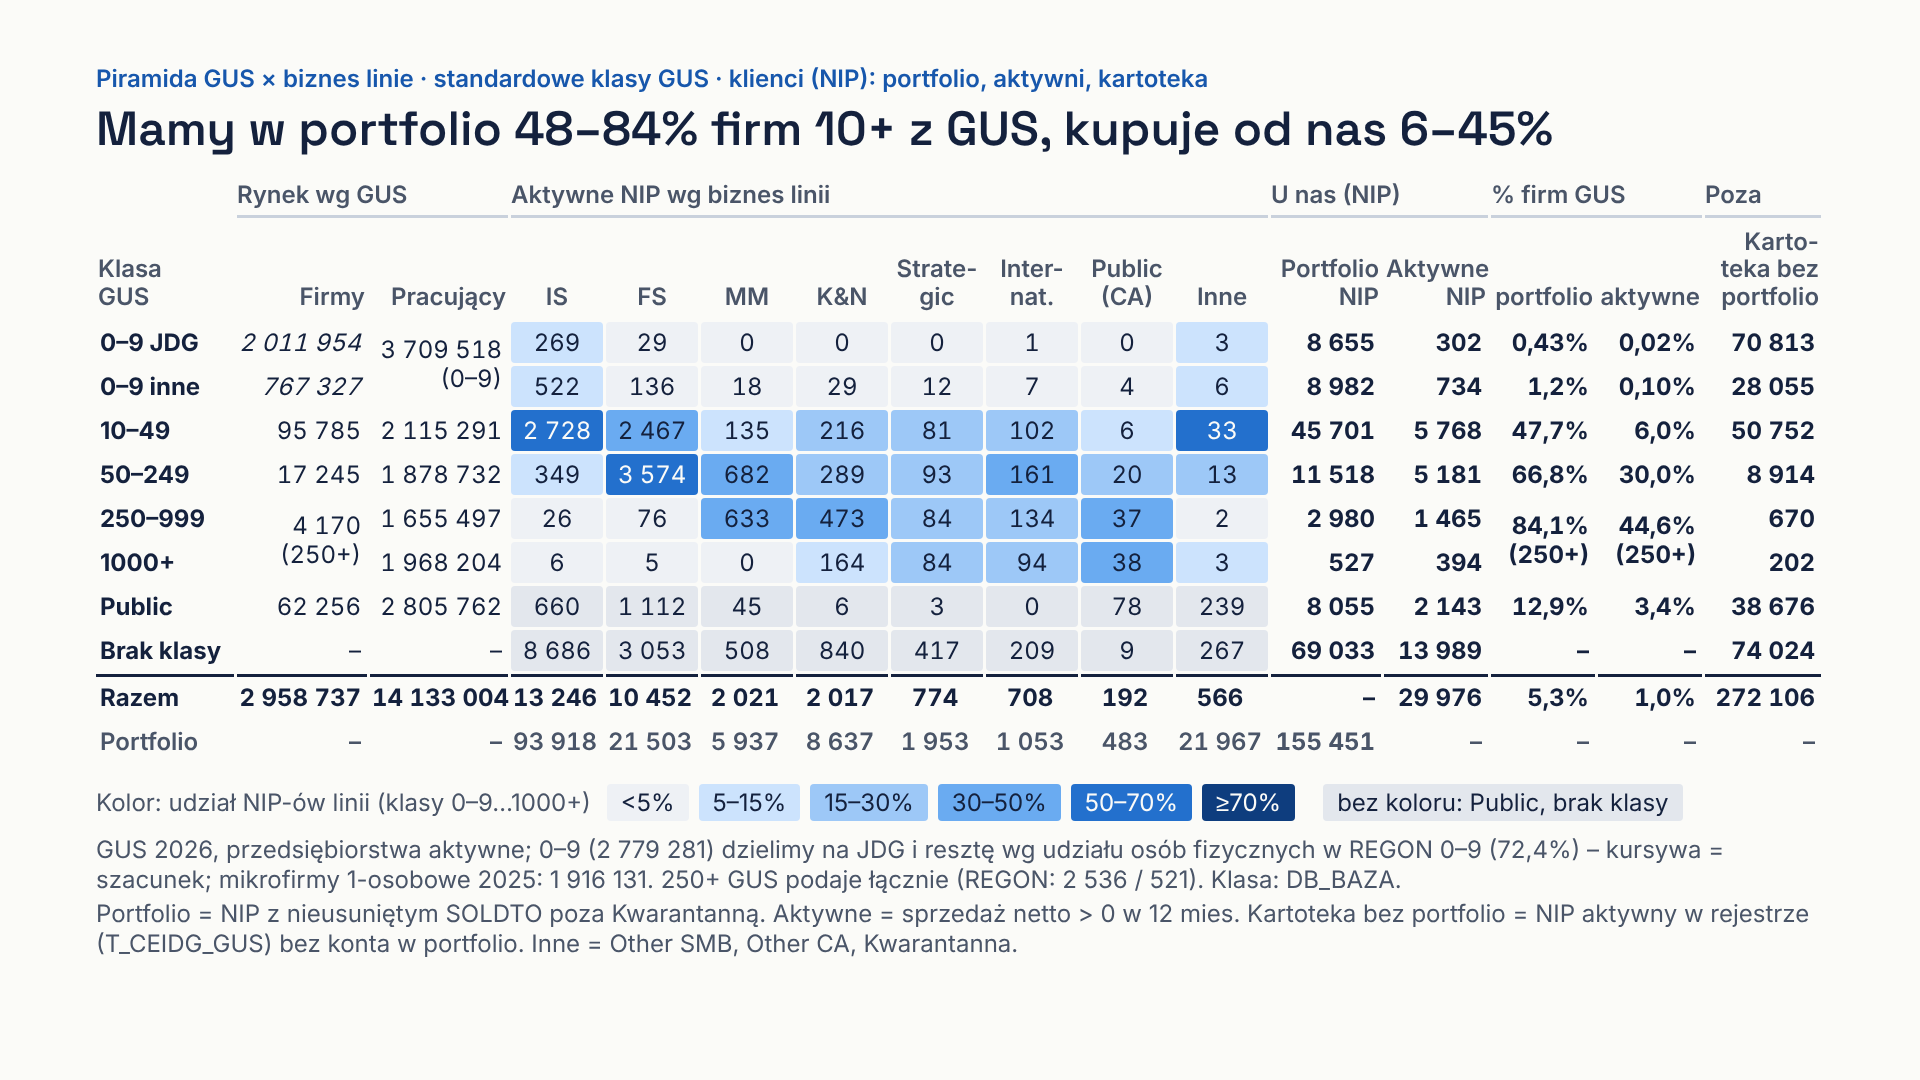
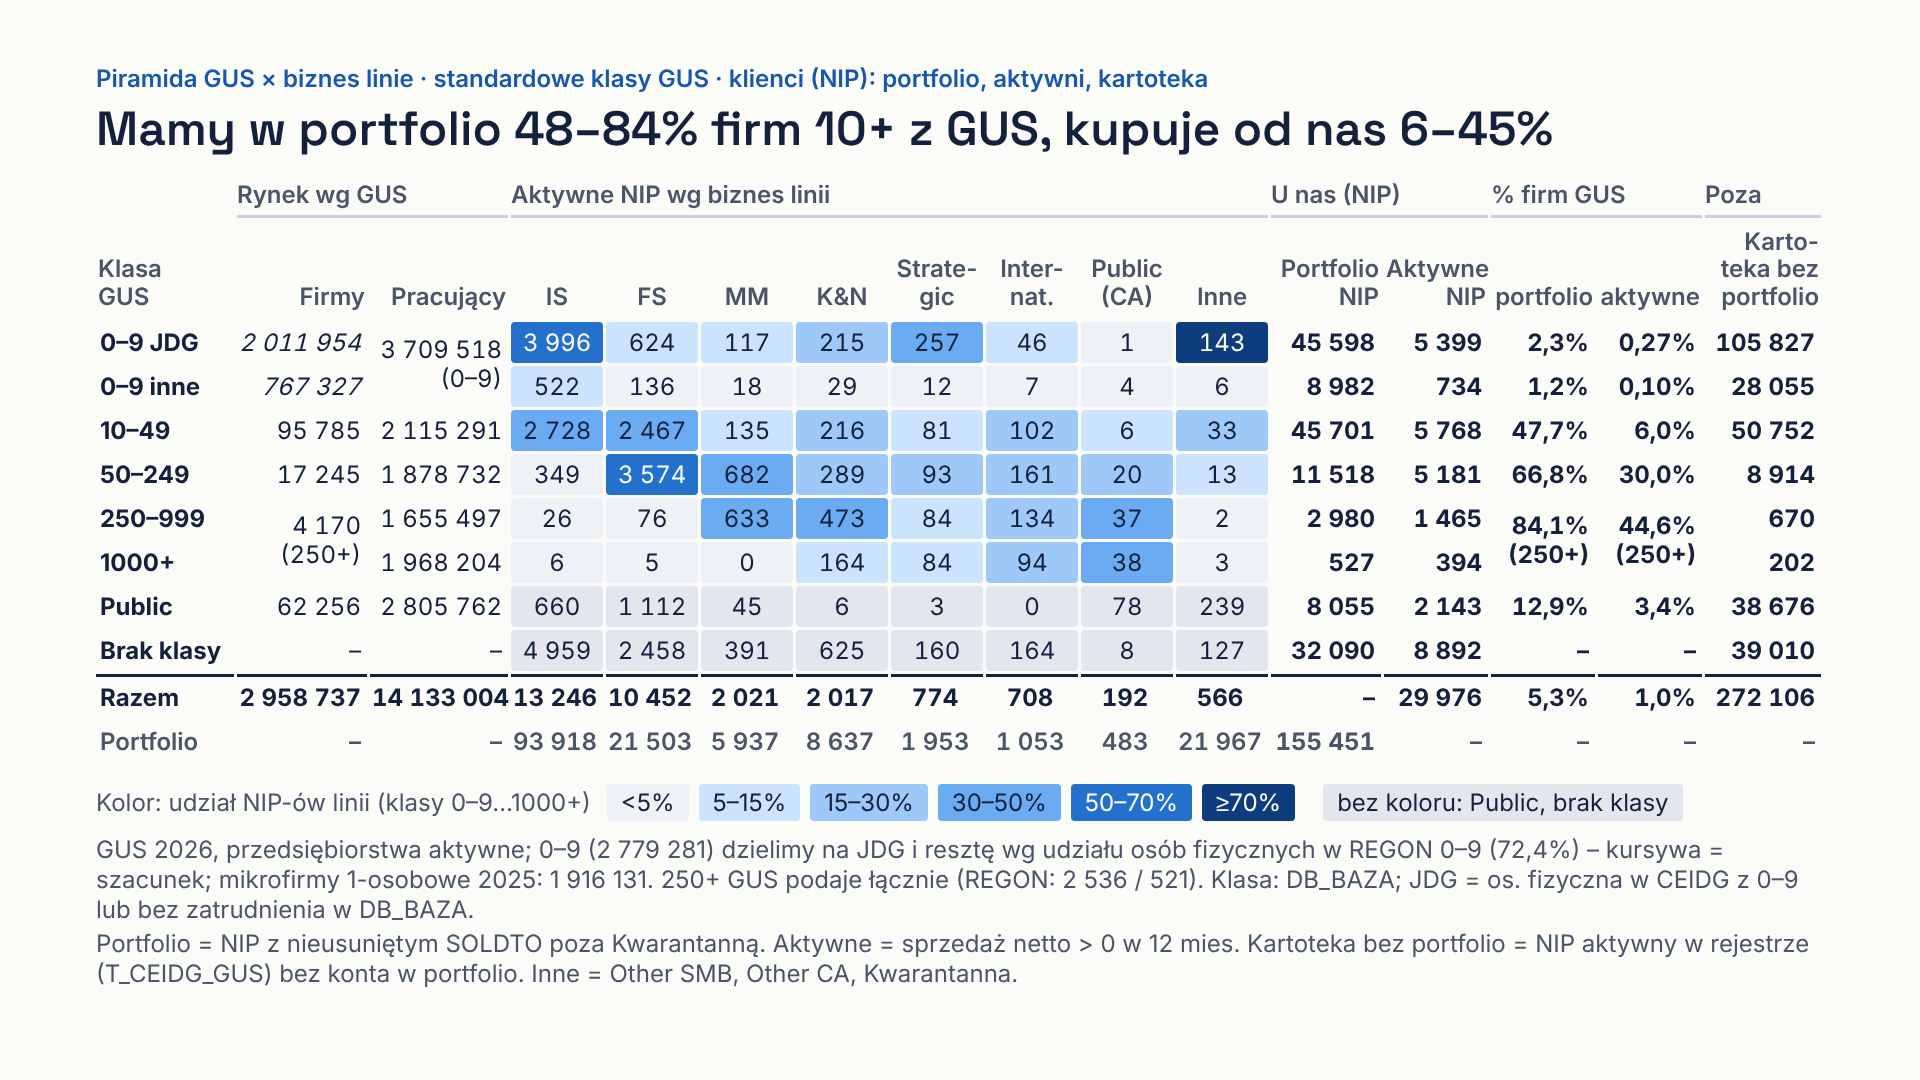
Slajd: JDG bez klasy przeniesione do wiersza 0-9 JDG (wynik D29)
Claude-Session: https://claude.ai/code/session_01XKqyymM4iGumhJbEjTSpGW

diff --git a/piramida_klientow/prezentacja/slajd_gus_x_biznes_linie/slides/macierz.html b/piramida_klientow/prezentacja/slajd_gus_x_biznes_linie/slides/macierz.html
@@ -29,19 +29,19 @@
 <p class="wiersz">0–9 JDG</p>
 <p class="gus szac">2 011 954</p>
 <p class="gus r09-prac">3 709 518<br>(0–9)</p>
-<p class="c h1">269</p>
-<p class="c h0">29</p>
-<p class="c h0">0</p>
-<p class="c h0">0</p>
-<p class="c h0">0</p>
+<p class="c h4">3 996</p>
+<p class="c h1">624</p>
+<p class="c h1">117</p>
+<p class="c h2">215</p>
+<p class="c h3">257</p>
+<p class="c h1">46</p>
 <p class="c h0">1</p>
-<p class="c h0">0</p>
-<p class="c h1">3</p>
-<p class="suma">8 655</p>
-<p class="suma">302</p>
-<p class="suma">0,43%</p>
-<p class="suma">0,02%</p>
-<p class="suma">70 813</p>
+<p class="c h5">143</p>
+<p class="suma">45 598</p>
+<p class="suma">5 399</p>
+<p class="suma">2,3%</p>
+<p class="suma">0,27%</p>
+<p class="suma">105 827</p>
 
 <p class="wiersz">0–9 inne</p>
 <p class="gus szac">767 327</p>
@@ -52,7 +52,7 @@
 <p class="c h0">12</p>
 <p class="c h0">7</p>
 <p class="c h0">4</p>
-<p class="c h1">6</p>
+<p class="c h0">6</p>
 <p class="suma">8 982</p>
 <p class="suma">734</p>
 <p class="suma">1,2%</p>
@@ -62,14 +62,14 @@
 <p class="wiersz">10–49</p>
 <p class="gus">95 785</p>
 <p class="gus">2 115 291</p>
-<p class="c h4">2 728</p>
+<p class="c h3">2 728</p>
 <p class="c h3">2 467</p>
 <p class="c h1">135</p>
 <p class="c h2">216</p>
-<p class="c h2">81</p>
+<p class="c h1">81</p>
 <p class="c h2">102</p>
 <p class="c h1">6</p>
-<p class="c h4">33</p>
+<p class="c h2">33</p>
 <p class="suma">45 701</p>
 <p class="suma">5 768</p>
 <p class="suma">47,7%</p>
@@ -79,14 +79,14 @@
 <p class="wiersz">50–249</p>
 <p class="gus">17 245</p>
 <p class="gus">1 878 732</p>
-<p class="c h1">349</p>
+<p class="c h0">349</p>
 <p class="c h4">3 574</p>
 <p class="c h3">682</p>
 <p class="c h2">289</p>
 <p class="c h2">93</p>
-<p class="c h3">161</p>
+<p class="c h2">161</p>
 <p class="c h2">20</p>
-<p class="c h2">13</p>
+<p class="c h1">13</p>
 <p class="suma">11 518</p>
 <p class="suma">5 181</p>
 <p class="suma">66,8%</p>
@@ -100,7 +100,7 @@
 <p class="c h0">76</p>
 <p class="c h3">633</p>
 <p class="c h3">473</p>
-<p class="c h2">84</p>
+<p class="c h1">84</p>
 <p class="c h2">134</p>
 <p class="c h3">37</p>
 <p class="c h0">2</p>
@@ -116,10 +116,10 @@
 <p class="c h0">5</p>
 <p class="c h0">0</p>
 <p class="c h1">164</p>
-<p class="c h2">84</p>
+<p class="c h1">84</p>
 <p class="c h2">94</p>
 <p class="c h3">38</p>
-<p class="c h1">3</p>
+<p class="c h0">3</p>
 <p class="suma">527</p>
 <p class="suma">394</p>
 <p class="suma">202</p>
@@ -144,19 +144,19 @@
 <p class="wiersz">Brak klasy</p>
 <p class="gus">–</p>
 <p class="gus">–</p>
-<p class="c pub">8 686</p>
-<p class="c pub">3 053</p>
-<p class="c pub">508</p>
-<p class="c pub">840</p>
-<p class="c pub">417</p>
-<p class="c pub">209</p>
-<p class="c pub">9</p>
-<p class="c pub">267</p>
-<p class="suma">69 033</p>
-<p class="suma">13 989</p>
+<p class="c pub">4 959</p>
+<p class="c pub">2 458</p>
+<p class="c pub">391</p>
+<p class="c pub">625</p>
+<p class="c pub">160</p>
+<p class="c pub">164</p>
+<p class="c pub">8</p>
+<p class="c pub">127</p>
+<p class="suma">32 090</p>
+<p class="suma">8 892</p>
 <p class="suma">–</p>
 <p class="suma">–</p>
-<p class="suma">74 024</p>
+<p class="suma">39 010</p>
 
 <p class="wiersz razem">Razem</p>
 <p class="suma razem">2 958 737</p>
@@ -202,15 +202,15 @@
 <p class="chip h5">≥70%</p>
 <p class="chip pub chip-pub">bez koloru: Public, brak klasy</p>
 </div>
-<p class="przypis">GUS 2026, przedsiębiorstwa aktywne; 0–9 (2 779 281) dzielimy na JDG i resztę wg udziału osób fizycznych w REGON 0–9 (72,4%) – kursywa = szacunek; mikrofirmy 1-osobowe 2025: 1 916 131. 250+ GUS podaje łącznie (REGON: 2 536 / 521). Klasa: DB_BAZA.</p>
+<p class="przypis">GUS 2026, przedsiębiorstwa aktywne; 0–9 (2 779 281) dzielimy na JDG i resztę wg udziału osób fizycznych w REGON 0–9 (72,4%) – kursywa = szacunek; mikrofirmy 1-osobowe 2025: 1 916 131. 250+ GUS podaje łącznie (REGON: 2 536 / 521). Klasa: DB_BAZA; JDG = os. fizyczna w CEIDG z 0–9 lub bez zatrudnienia w DB_BAZA.</p>
 <p class="przypis">Portfolio = NIP z nieusuniętym SOLDTO poza Kwarantanną. Aktywne = sprzedaż netto &gt; 0 w 12 mies. Kartoteka bez portfolio = NIP aktywny w rejestrze (T_CEIDG_GUS) bez konta w portfolio. Inne = Other SMB, Other CA, Kwarantanna.</p>
 <aside>Lewa strona to rynek wg GUS w standardowych klasach, bez powtórzeń: suma wierszy daje rynek ogółem. GUS nie dzieli przedsiębiorstw aktywnych 0–9 na JDG i pozostałe, więc 2 779 281 firm 0–9 dzielimy według udziału osób fizycznych w REGON (72,4%): 2 011 954 JDG i 767 327 pozostałych. Kontrola: GUS podaje 1 916 131 mikrofirm jednoosobowych w 2025 r., co pasuje do tego rzędu wielkości. Pracujących 0–9 nie dzielimy. 250+ GUS podaje łącznie.
 
-CEIDG ma 2 649 377 aktywnych wpisów (źródło: outreachpilot.pl/firmy), ale to wpisy, a nie aktywne przedsiębiorstwa: liczą się w nich wspólnicy s.c. osobno, JDG wszystkich wielkości i firmy bez obrotów. Dlatego do piramidy bierzemy GUS. Wobec GUS mamy w portfolio 0,43% JDG 0–9 i 1,2% pozostałych firm 0–9.
+CEIDG ma 2 649 377 aktywnych wpisów (źródło: outreachpilot.pl/firmy), ale to wpisy, a nie aktywne przedsiębiorstwa: liczą się w nich wspólnicy s.c. osobno, JDG wszystkich wielkości i firmy bez obrotów. Dlatego do piramidy bierzemy GUS. Wobec GUS mamy w portfolio 2,3% JDG i 1,2% pozostałych firm 0–9. Wiersz JDG obejmuje też JDG bez zatrudnienia w DB_BAZA (wcześniej w „Brak klasy”).
 
 Środek to aktywne NIP-y według biznes linii (region głównego SOLDTO), kolor to udział w linii. Wiersz Portfolio pod spodem pokazuje, ile NIP-ów każda linia ma w kartotece.
 
-Kartoteka bez portfolio to firmy, które znamy z rejestru (T_CEIDG_GUS) i które działają, ale nie mają u nas konta w portfolio: 272 tys. NIP-ów, w tym 71 tys. JDG 0–9 i 51 tys. firm 10–49. Wśród firm 250+ jest ich tylko 872 – duże firmy prawie wszystkie mamy w portfolio.
+Kartoteka bez portfolio to firmy, które znamy z rejestru (T_CEIDG_GUS) i które działają, ale nie mają u nas konta w portfolio: 272 tys. NIP-ów, w tym 106 tys. JDG i 51 tys. firm 10–49. Wśród firm 250+ jest ich tylko 872 – duże firmy prawie wszystkie mamy w portfolio.
 
-Wnioski: w portfolio mamy 48% firm 10–49, 67% firm 50–249 i 84% firm 250+; kupuje od nas 6%, 30% i 45% rynku. JDG 0–9 to 8,7 tys. NIP-ów w portfolio, ale tylko 302 aktywne.</aside>
+Wnioski: w portfolio mamy 48% firm 10–49, 67% firm 50–249 i 84% firm 250+; kupuje od nas 6%, 30% i 45% rynku. JDG to 45,6 tys. NIP-ów w portfolio i 5,4 tys. aktywnych (2,1% sprzedaży) – głównie w IS (4 tys.).</aside>
 </section>
